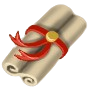
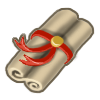
css(rewards): include dark mode

diff --git a/packages/webapp/app/components/Home/tabs/RewardsTab.tsx b/packages/webapp/app/components/Home/tabs/RewardsTab.tsx
@@ -243,6 +243,10 @@ const RewardsTab: React.FC<TabProps> = ({ toon }) => {
   const rewardTypes = ["SOS", "Unites", "Summons", "Pinkslips", "Remotes"];
   const [selectedReward, setSelectedReward] = useState(rewardTypes[0]);
 
+  if (!toon.data.data.rewards) {
+    return <div>No rewards available.</div>;
+  }
+
   const renderSOS = () => {
     const sosCards = toon.data.data.rewards.sos;
     if (!sosCards) {
@@ -260,7 +264,7 @@ const RewardsTab: React.FC<TabProps> = ({ toon }) => {
           return (
             <div
               key={index}
-              className="grid grid-rows-4 text-xl bg-gray-100 border-2 border-gray-600 shadow-md p-2 rounded-lg"
+              className="grid grid-rows-4 text-xl dark:text-gray-100 bg-gray-100 dark:bg-gray-900 border-2 border-gray-600 shadow-md p-2 rounded-lg"
               style={{ gridTemplateRows: "30px 30px 70px auto" }}
             >
               {/* sos type */}
@@ -284,7 +288,10 @@ const RewardsTab: React.FC<TabProps> = ({ toon }) => {
               {/* star count */}
               <div className="flex flex-row justify-end mt-1">
                 {Array.from({ length: entry?.stars || 0 }, (_, i) => (
-                  <FaStar key={i} className="text-amber-900 w-4 h-4" />
+                  <FaStar
+                    key={i}
+                    className="text-amber-900 dark:text-amber-600 w-4 h-4"
+                  />
                 ))}
               </div>
             </div>
